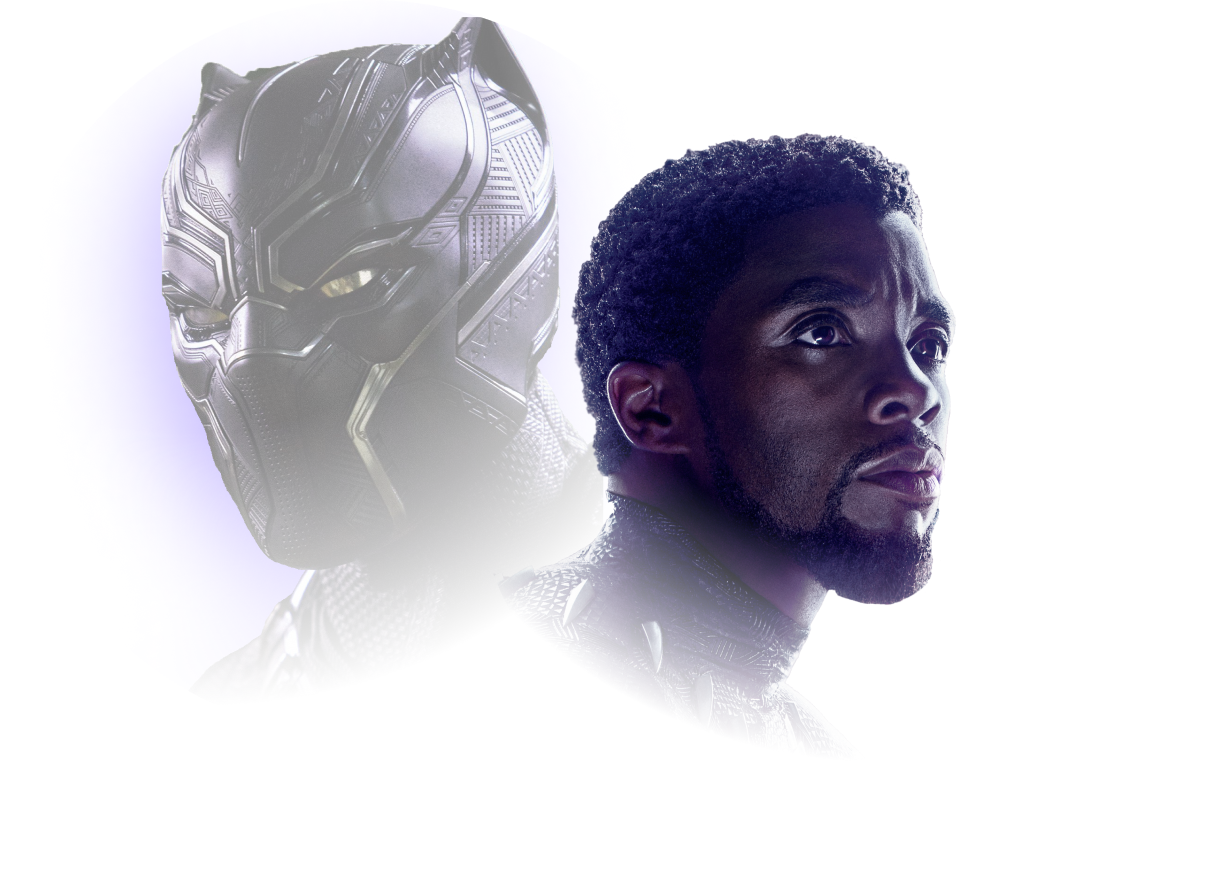
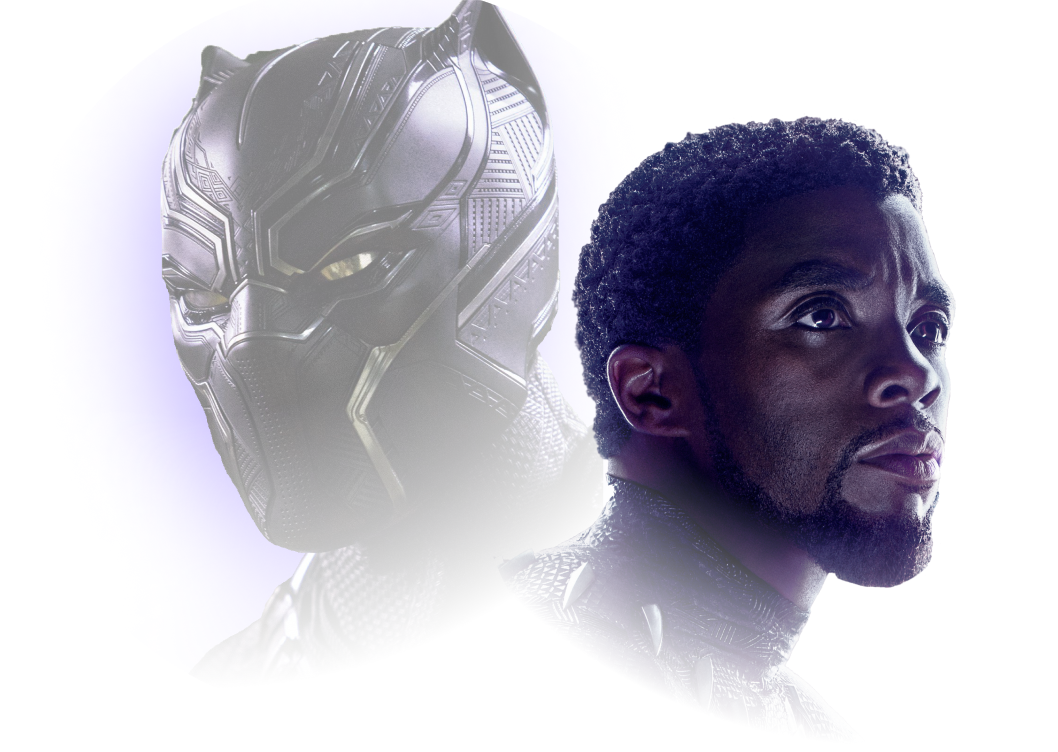
CSS design section personnage

diff --git a/accueil/index.html b/accueil/index.html
@@ -24,54 +24,54 @@
     </header>
     <main>
         <div class="scroll">
-            <a href="http://www.marvel-cineverse.fr/pages/mcu/encyclopedie/personnages/black-panther.html">
+            <a href="http://www.marvel-cineverse.fr/pages/mcu/encyclopedie/personnages/black-panther.html" target="_blank">
                 <img class="social" src="../all pages/icon_facebook.png" alt="icon_facebook"></a>
-            <a href="http://www.marvel-cineverse.fr/pages/mcu/encyclopedie/personnages/black-panther.html">
+            <a href="http://www.marvel-cineverse.fr/pages/mcu/encyclopedie/personnages/black-panther.html" target="_blank">
                 <img class="social" src="../all pages/icon_instagram.png" alt="icon_instagram"></a>
-            <a href="http://www.marvel-cineverse.fr/pages/mcu/encyclopedie/personnages/black-panther.html">
+            <a href="http://www.marvel-cineverse.fr/pages/mcu/encyclopedie/personnages/black-panther.html" target="_blank">
                 <img class="social" src="../all pages/icon_twitter.png" alt="icon_twitter"></a>
-            <a href="http://www.marvel-cineverse.fr/pages/mcu/encyclopedie/personnages/black-panther.html">
+            <a href="http://www.marvel-cineverse.fr/pages/mcu/encyclopedie/personnages/black-panther.html" target="_blank">
                 <img class="social" src="../all pages/icon_tiktok.png" alt="icon_tiktok"></a>
         </div>
-    <section>
+    <section id="personnage-principal">
         <div class="container">
             <div class="content">
-                <div>
+                <div class="personnage-text">
                 <h1>BLACK PANTHER</h1>
                 <h2>WAKANDA FOREVER</h2>
                 <p>En plus d'étre un film qui fait la part belle aux héroines, Black Panther rend hommage aux cultures africaine et afro—américaine. On y évoque ie racisme, la colonisation et les violences contre lesafro—américains.
-                    Ce film marque tout une génération,“c‘est 10@â africain etc‘est parfait”.
-                    Voir plus >
+                    Ce film marque tout une génération,“c‘est 10@â africain etc‘est parfait”. <br>
+                    <span class="voir-plus"> Voir plus ></span>
                 </p>
                 </div>
-                <div>
-                    <img src="./a-illustrations/" alt="">
+                <div class="black-panther">
+                    <img src="./a-illustrations/Pantherhome1..png" alt="">
                 </div>
             </div>
         </div>
     </section>
-    <section>
+    <section id="personnage">
         <div class="container">
             <div class="content">
-                <div>
+                <div class="personnage-image">
                     <img src="./a-illustrations/Pantherhome2.png" alt="">
                 </div>
                 <div>
                     <h3>KILLMONGER</h3>
-                    <p>La sauvagerie de N'Jadaka alors qu'iI servait dans une unité d'opérations noires de I'armée américaine lui a valu Ie sumom de Killmonger. D’origine Wakandaise, et se sentant abandoné par sa nation, il cherche â détroner TChalla dans une quéte vers ie pourvoir.
-                        Voir plus >
+                    <p>La sauvagerie de N'Jadaka alors qu'iI servait dans une unité d'opérations noires de I'armée américaine lui a valu Ie sumom de Killmonger. D’origine Wakandaise, et se sentant abandoné par sa nation, il cherche â détroner TChalla dans une quéte vers ie pourvoir. <br>
+                        <span class="voir-plus"> Voir plus ></span>
                     </p>
                 </div>
-                <div>
+                <div class="personnage-image">
                     <img src="./a-illustrations/Pantherhome3.png" alt="">
                 </div>
                 <div>
                     <h3>OKOFE</h3>
-                    <p>Okoye est Ie général des Dora Nlilaje (groupe d’éIite de femmes guerriéres) et Ie chef des forces armées et des renseignements wakandais. Témoin du couronnement de TChalla, elle se joint â lui dans de nombreuses aventures.
-                        Voir plus >
+                    <p>Okoye est Ie général des Dora Nlilaje (groupe d’éIite de femmes guerriéres) et Ie chef des forces armées et des renseignements wakandais. Témoin du couronnement de TChalla, elle se joint â lui dans de nombreuses aventures. <br>
+                        <span class="voir-plus"> Voir plus ></span>
                     </p>
                 </div> 
-                <div>
+                <div class="personnage-image">
                     <img src="./a-illustrations/Pantherhome4.png" alt="">
                 </div>
             </div>
@@ -188,16 +188,16 @@
             </div>
             <div>
                 <h2>RETROUVEZ NOUS</h2>
-                <a href="http://www.marvel-cineverse.fr/pages/mcu/encyclopedie/personnages/black-panther.html">
+                <a href="http://www.marvel-cineverse.fr/pages/mcu/encyclopedie/personnages/black-panther.html" target="_blank">
                     <img src="../all pages/footer3.png" alt="facebook">
                 </a>
-                <a href="http://www.marvel-cineverse.fr/pages/mcu/encyclopedie/personnages/black-panther.html">
+                <a href="http://www.marvel-cineverse.fr/pages/mcu/encyclopedie/personnages/black-panther.html" target="_blank">
                     <img src="../all pages/footer4.png" alt="instagram">
                 </a>
-                <a href="http://www.marvel-cineverse.fr/pages/mcu/encyclopedie/personnages/black-panther.html">
+                <a href="http://www.marvel-cineverse.fr/pages/mcu/encyclopedie/personnages/black-panther.html" target="_blank">
                     <img src="../all pages/footer5.png" alt="twitter">
                 </a>
-                <a href="http://www.marvel-cineverse.fr/pages/mcu/encyclopedie/personnages/black-panther.html">
+                <a href="http://www.marvel-cineverse.fr/pages/mcu/encyclopedie/personnages/black-panther.html" target="_blank">
                     <img src="../all pages/footer6.png" alt="tiktok">
                 </a>
             </div>

diff --git a/accueil/css/style.css b/accueil/css/style.css
@@ -21,6 +21,11 @@
     font-family: 'cantarell';
     src: url(../../Cantarell-Regular.ttf);
 }
+*{
+    margin: 0; 
+    padding: 0;
+    box-sizing: border-box;
+}   
 :root{
     --white-color: #fff;
     --magentalight-color: #efcef2;
@@ -35,6 +40,7 @@ body{
     background: radial-gradient(126.67% 350.28% at -21.35% 0%, #11213F 0%, #0B0B0B 39.1%, rgba(2, 23, 64, 0.837641) 94.57%, rgba(2, 23, 64, 0) 100%) ;
     color: var(--white-color);
     font-family: 'cantarell';
+    font-size: 16px;
 
 }
 .container{
@@ -45,6 +51,20 @@ h1{
     font-family: 'panthera';
     font-size: 60px;
     color: var(--magentasoft-color);
+}
+h2{
+    font-family: 'beyno';
+    font-size: 32px;
+    color: var(--magentasoft-color);
+}
+h3{
+    font-family: 'beyno';
+    font-size: 20px;
+    color: var(--magentasoft-color);
+}
+.voir-plus{
+    text-decoration: underline;
+
 }
 /* Design de la navigation */
 nav{
@@ -79,7 +99,7 @@ nav ul a:active{
     text-decoration: underline;
 }
 .logo{
-
+    padding: 0px;
 }
 .logo:hover{
     -webkit-filter: invert(67%) sepia(10%) saturate(2002%) hue-rotate(233deg) brightness(104%) contrast(90%);
@@ -96,10 +116,10 @@ nav ul a:active{
     top: 70px;
     flex-direction: column;
     padding-left: 50px;
-    margin-top: 150px;
+    margin-top: 250px;
 }
 .scroll .social{
-    padding: 10px 2px;
+    padding: 10px 10px;
 }
 .scroll .social:hover{
     -webkit-filter:invert(94%) sepia(45%) saturate(7196%) hue-rotate(202deg) brightness(140%) contrast(98%);
@@ -109,7 +129,7 @@ nav ul a:active{
     border-left: 2px solid var(--magentalight-color);
     position: fixed;
     width: 2px;
-    height: 41%;
+    height: 52%;
     left: 50px;
     margin-top: 0;
 }
@@ -117,7 +137,69 @@ nav ul a:active{
     border-right: 2px solid var(--magentalight-color);
     position: fixed;
     width: 2px;
-    height: 22%;
+    height: 34%;
     left: 70px;
     margin-top: 0;
+}
+/* Design section - personnage-principal*/
+#personnage-principal .content{
+    padding-top: 200px;
+    margin-left: -40px;
+    margin-right: -90px;
+    display: flex;
+    flex-direction: row;
+}
+#personnage-principal .personnage-text{
+    margin-left: 50%;
+    margin: 10px;
+}
+#personnage-principal p{
+    padding-top: 50px;
+    text-align: left;
+    width: 105%;
+    z-index: 1;
+}
+.black-panther{
+    display: flex;
+    margin-top: -200px;
+    margin-right: -7%;
+    z-index: 2;
+    width: auto;
+}
+
+/* Design section - personnage*/
+#personnage{
+    margin-left: -100px;
+    margin: 5px 0px;
+    padding: 20px 5px;
+}
+#personnage .container{
+    display: flex;
+    position: relative;
+    background-color: var(--bluedark-color);
+    padding-right: 2px;
+    width: 80%;
+
+}
+#personnage .content{
+    display: flex;
+    position: relative;
+    align-items: center;
+    padding: 0px 15px;
+    padding-left: 40px;
+    padding-right: 0;
+    margin: 5px 5px;
+    width: 700%;
+
+}
+#personnage .personnage-image{
+    position: relative;
+    padding: 1px ;
+    margin: 20px;
+    width: 100%;
+}
+#personnage .personnage-text{
+    display:block;
+    text-align: justify;
+    width: 200%;
 }
